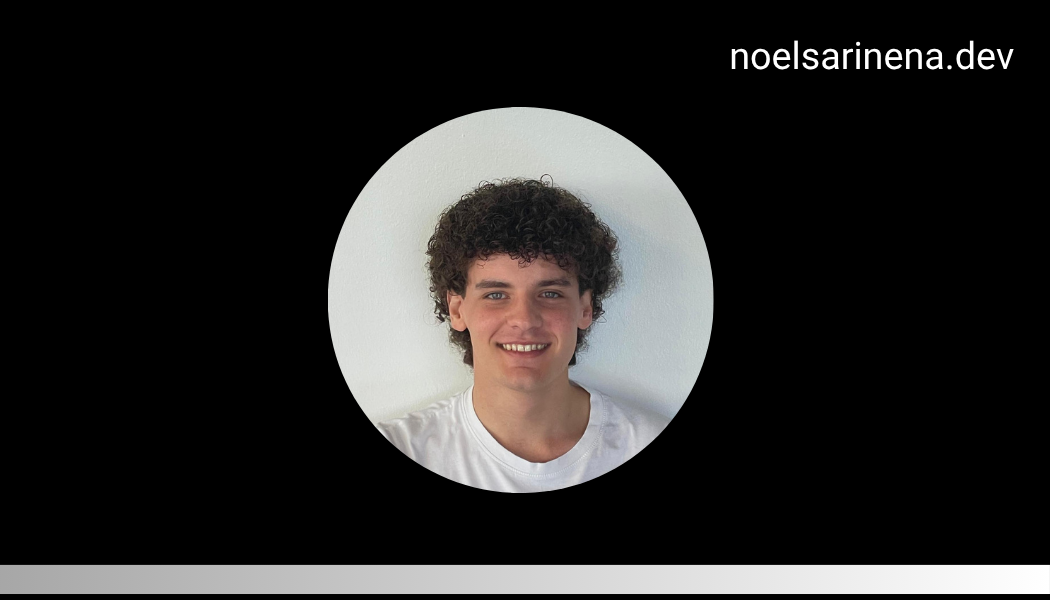
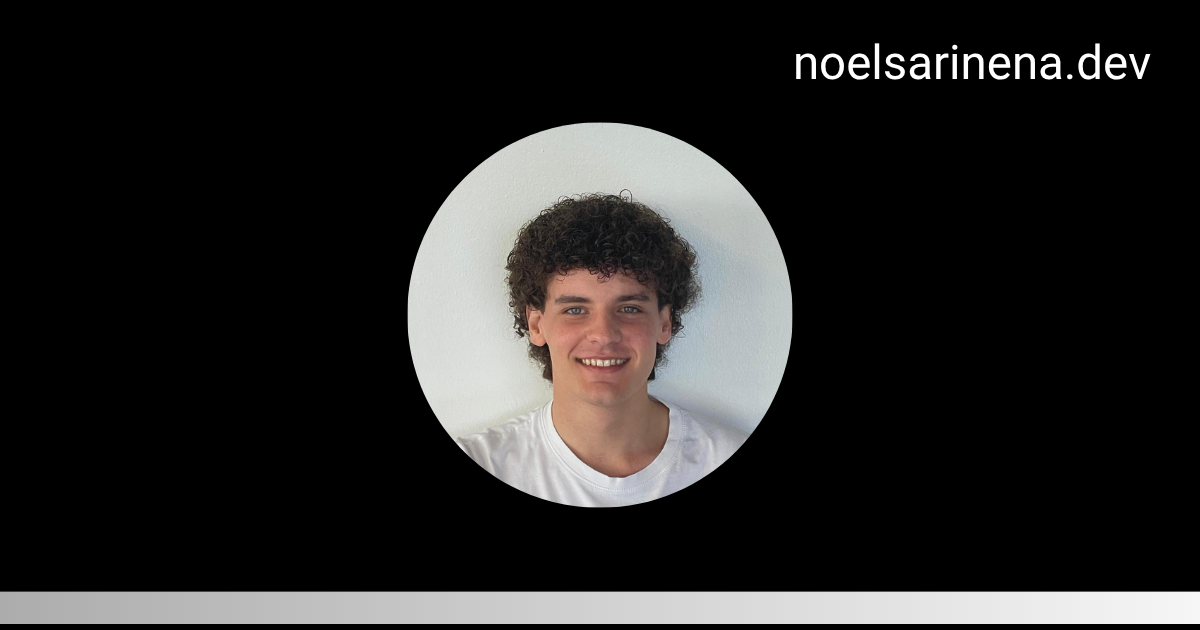
Final commit for og images, I swear.

diff --git a/src/app/og/route.tsx b/src/app/og/route.tsx
@@ -11,15 +11,7 @@ export async function GET(req: NextRequest) {
     const hasTitle = searchParams.has("title");
     const postTitle = hasTitle
       ? searchParams.get("title")?.slice(0, 100)
-      : searchParams.has("type") && searchParams.get("type") === "projects"
-      ? "Projects"
-      : searchParams.has("type") && searchParams.get("type") === "blog"
-      ? "Blog"
       : "My Portfolio";
-
-    const fontData = await fetch(
-      "https://fonts.gstatic.com/s/googlesansflex/v5/t5s6IQcYNIWbFgDgAAzZ34auoVyXkJCOvp3SFWJbN5hF8Ju1x5tKByN2l9sI40swNJwakXdYAZzz0jbnJ4qFQO5tGjLvDSkV4DyKMo6qQzwliVdHySgxyRg2.woff2"
-    ).then((res) => res.arrayBuffer());
 
     return new ImageResponse(
       (
@@ -31,8 +23,11 @@ export async function GET(req: NextRequest) {
             flexDirection: "column",
             alignItems: "flex-start",
             justifyContent: "center",
-            color: "white",
+            backgroundColor: "#000000",
             backgroundImage: `url(${siteMetadata.siteUrl}/_static/content-og-card.png)`,
+            backgroundRepeat: "no-repeat",
+            backgroundSize: "100% 100%",
+            backgroundPosition: "center",
           }}
         >
           <div
@@ -41,8 +36,9 @@ export async function GET(req: NextRequest) {
               marginRight: 100,
               display: "flex",
               fontSize: 65,
-              fontFamily: "Inter",
+              fontFamily: "roboto, -apple-system, sans-serif",
               fontStyle: "normal",
+              fontWeight: 700,
               color: "white",
               whiteSpace: "pre-wrap",
             }}
@@ -54,14 +50,6 @@ export async function GET(req: NextRequest) {
       {
         width: 1200,
         height: 630,
-        fonts: [
-          {
-            name: "Inter",
-            data: fontData,
-            style: "normal",
-            weight: 400,
-          },
-        ],
       }
     );
   } catch (e) {

diff --git a/src/app/projects/page.tsx b/src/app/projects/page.tsx
@@ -1,29 +1,16 @@
-/* export default function ProjectsPage() {
-  return (
-    <>
-      <h1 className="text-6xl font-extrabold md:text-8xl text-center mb-5">
-        Not ready yet!
-      </h1>
-      <p className="mb-4 text-xl font-bold md:text-2xl text-center">
-        Coming soon...
-      </p>
-    </>
-  );
-}
- */
-
-import { AnimatedBlogList } from "@/components/blog/animated-blog-list";
 import { allProjects } from "contentlayer/generated";
 import { ENV } from "@/lib/env";
 import { generatePageMetadata } from "@/data/seo";
 import { SearchInput } from "@/components/ui/search-input";
 import { Pagination } from "@/components/pagination/pagination";
 import { AnimatedProjectsList } from "@/components/projects/animated-projects-list";
+import { siteMetadata } from "@/data/siteMetadata";
 
 export const metadata = generatePageMetadata({
   title: "Projects",
   description: "Find out about my projects",
   canonical: "/projects",
+  image: `${siteMetadata.siteUrl}/og?title=Projects`,
 });
 
 const isProd = ENV.NODE_ENV === "production";

diff --git a/src/app/blog/page.tsx b/src/app/blog/page.tsx
@@ -4,12 +4,14 @@ import { ENV } from "@/lib/env";
 import { generatePageMetadata } from "@/data/seo";
 import { SearchInput } from "@/components/ui/search-input";
 import { Pagination } from "@/components/pagination/pagination";
+import { siteMetadata } from "@/data/siteMetadata";
 
 export const metadata = generatePageMetadata({
   title: "Blog",
   description:
     "Explore my personal blog where I share insights, discoveries, and thoughts on technology and life.",
   canonical: "/blog",
+  image: `${siteMetadata.siteUrl}/og?title=Blog`,
 });
 
 const isProd = ENV.NODE_ENV === "production";

diff --git a/src/app/head.tsx b/src/app/head.tsx
@@ -5,7 +5,6 @@ export default function Head() {
   return (
     <>
       <link rel="icon" type="image/png" href="/_static/favicons/favicon.ico" />
-      <link rel="manifest" href="/_static/favicons/site.webmanifest" />
       <meta name="msapplication-TileColor" content="#000000" />
       <meta
         name="theme-color"
